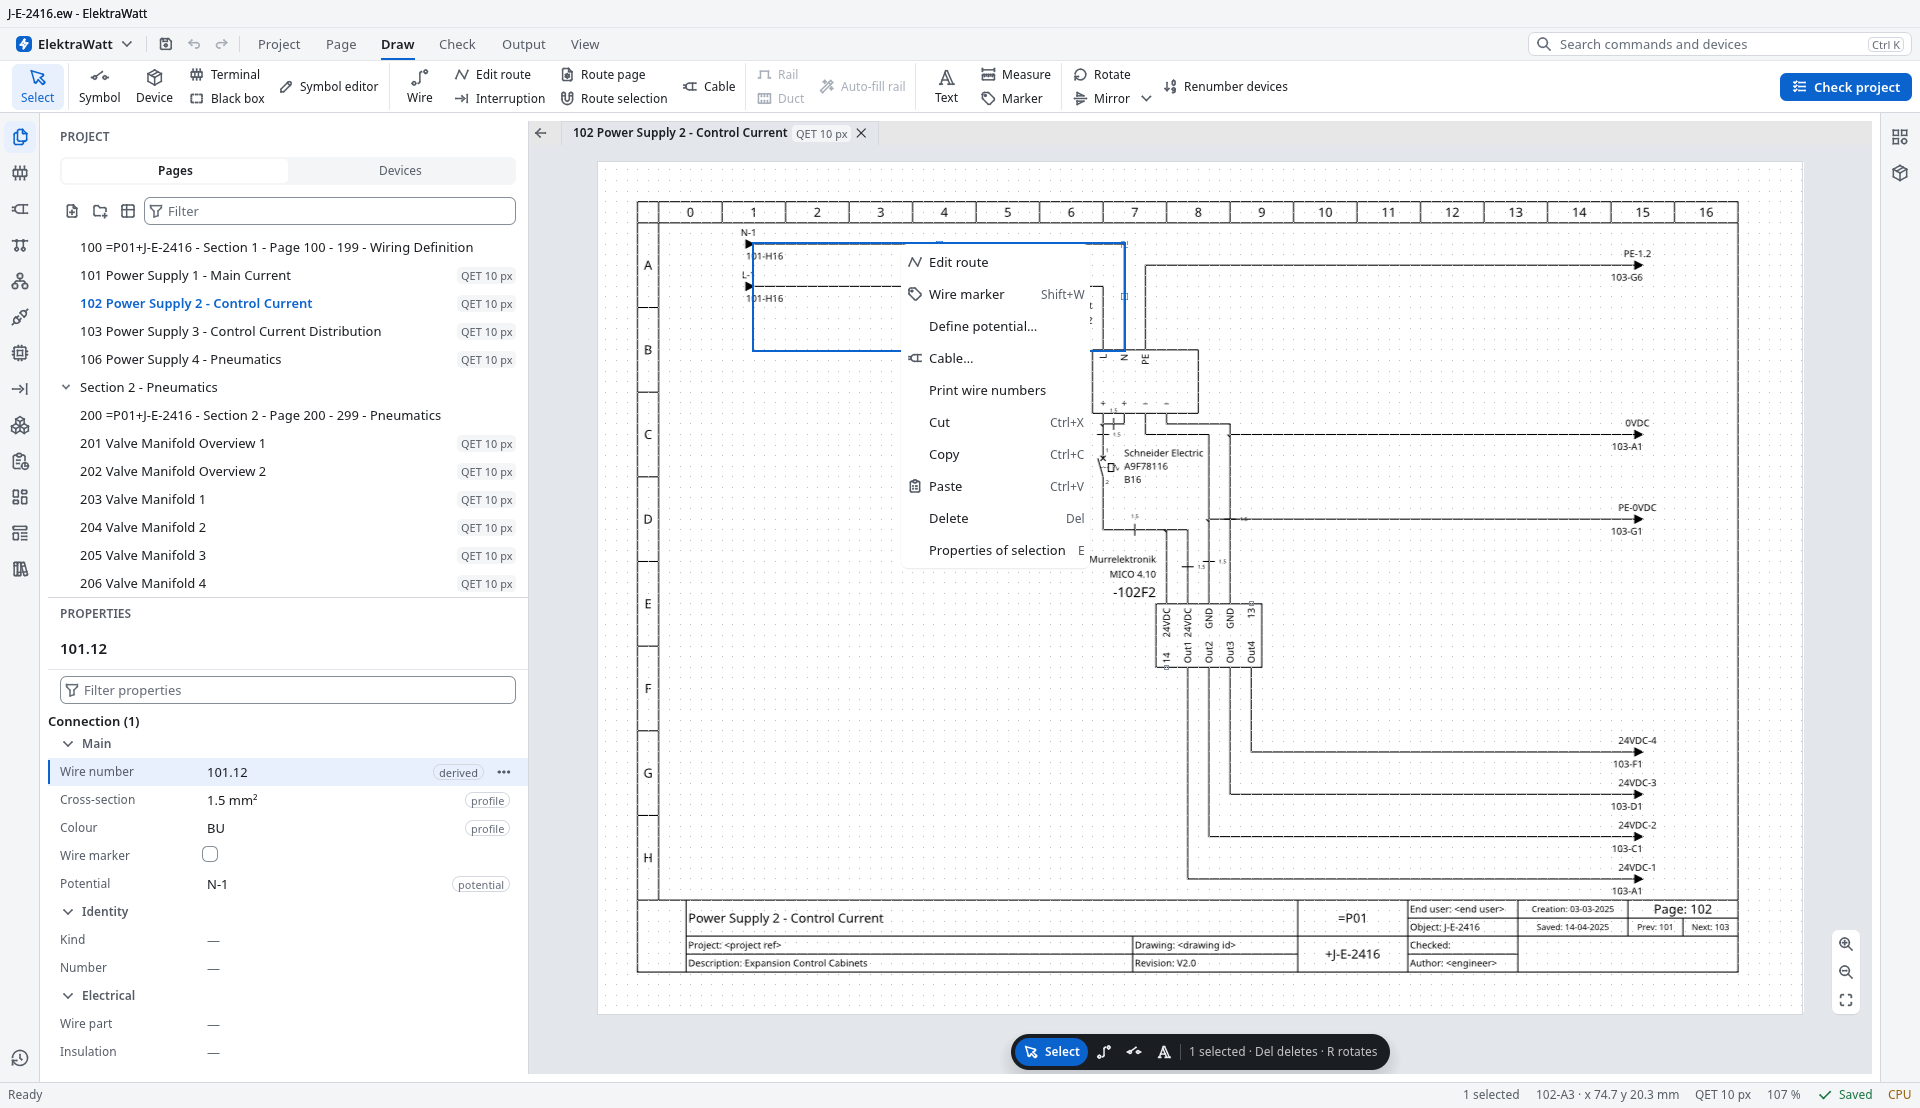
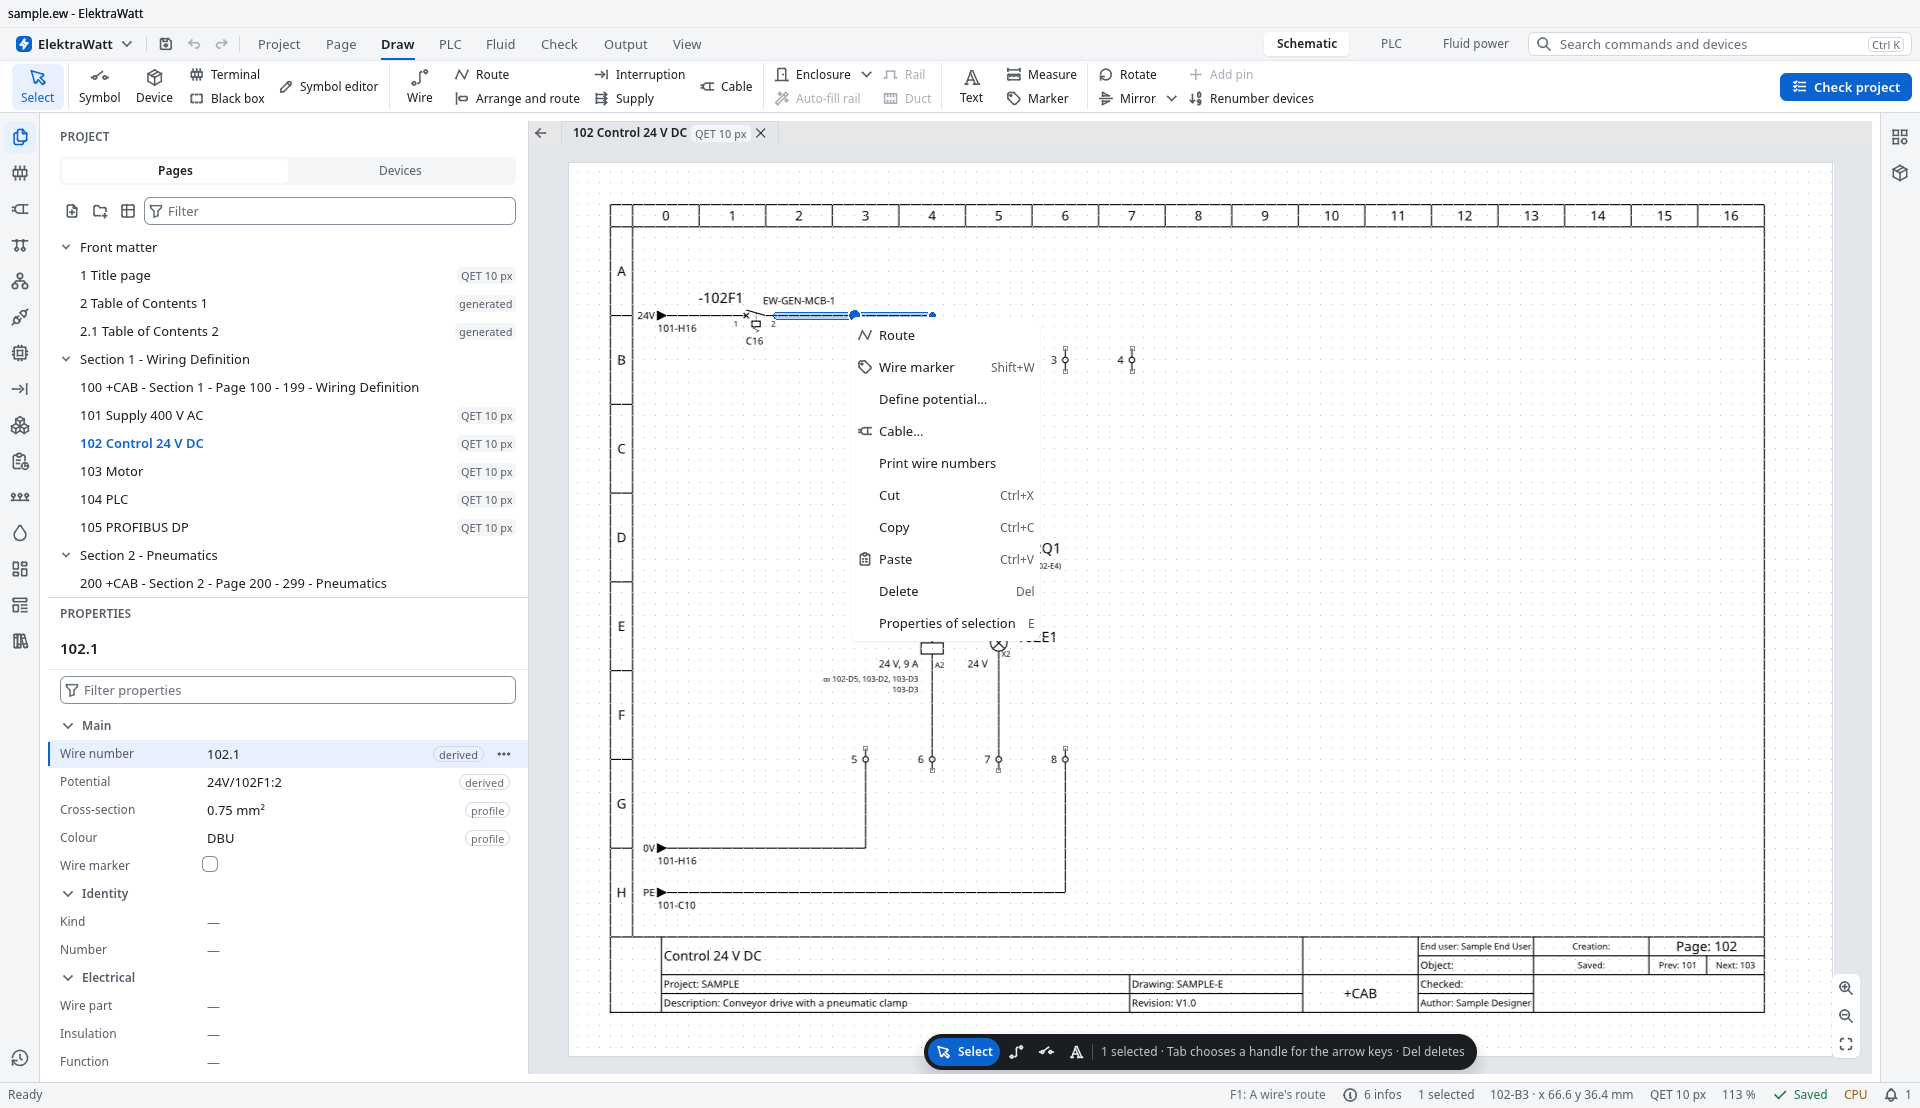
docs(readme): the pictures and the quick start are on the sample project
Five of the six pictures are shot again on a copy of the sample project at
1920 x 1080 from the headless window (the check findings on 101, the
right-click menu on a wire of 102, Cable... over two field wires on 104, the
panel layout 902, the pneumatics page 201 in the dark theme). The symbol
editor's picture is kept: shot again, its turned variants print their texts
on top of each other, a fault reported rather than committed. The quick start
copies the sample, and the reference project's lines go.

diff --git a/README.md b/README.md
@@ -8,9 +8,9 @@ in Rust. It aims at the functionality of EPLAN Electric P8 class tools: schemati
 cables, PLC and fluid power, panel layout, reports, manufacturing outputs and checks, in a plain-text project format
 that works with Git.
 
-![The ElektraWatt window with the reference project open: the page list and the properties on the left, a
-main-current schematic on the canvas, and the findings of a project check in the Messages panel below
-it](docs/images/screenshot-schematic-checks.png)
+![The ElektraWatt window with the sample project open: the page list and the properties on the left, the 400 V supply
+page on the canvas, and the findings of a project check in the Messages panel below it: no error, no warning, six
+infos](docs/images/screenshot-schematic-checks.png)
 
 ## Download
 
@@ -33,14 +33,15 @@ and what is known not to work yet.
 
 | The right-click menu | Cable… |
 |---|---|
-| ![A wire of the reference project right-clicked: its menu offers Edit route, Wire marker, Define potential, Cable and Print wire numbers first, then the general entries](docs/images/screenshot-right-click.png) | ![The Cable form over three selected supply wires: the proposed tag -101W1, the type 3G1.5 and each wire's core, N on blue, PE on green-yellow, L on brown](docs/images/screenshot-cable-form.png) |
+| ![A wire of the sample's 24 V control page right-clicked: its menu offers Route, Wire marker, Define potential, Cable and Print wire numbers first, then the general entries](docs/images/screenshot-right-click.png) | ![The Cable form over the two selected wires of a position switch in the field: the proposed tag -104W1, the two-core cable type and each wire's core, brown and blue](docs/images/screenshot-cable-form.png) |
 | **The symbol editor** | **The panel layout** |
-| ![The symbol editor with a copy of the starter coil: its drawing with the connection points A1 and A2, the category Relays, the snap grid, the eight variants and a tool's tooltip](docs/images/screenshot-symbol-editor.png) | ![The cabinet layout page of the reference project: the mounting plate with its rails, ducts and devices, and the parts legend beside it](docs/images/screenshot-panel-layout.png) |
+| ![The symbol editor with a copy of the starter coil: its drawing with the connection points A1 and A2, the category Relays, the snap grid, the eight variants and a tool's tooltip](docs/images/screenshot-symbol-editor.png) | ![The panel layout page of the sample project: the enclosure and its mounting plate with two rails, a duct and the devices, and the legend beside it](docs/images/screenshot-panel-layout.png) |
 | **The dark theme** | |
-| ![A fluid-power page of the reference project in the dark theme: a valve manifold with its solenoid valves and cylinders](docs/images/screenshot-dark-theme.png) | |
+| ![The pneumatics page of the sample project in the dark theme: a valve terminal with four solenoid valves, two of them spare, driving two cylinders](docs/images/screenshot-dark-theme.png) | |
 
-The screenshots show the reference project `golden/J-E-2416.ew` at 1920 × 1080. The application drew them itself,
-with its offscreen renderer (`elektrawatt --headless --visual`), the same one its window tests use.
+The screenshots show a copy of the sample project `fixtures/sample/sample.ew` at 1920 × 1080; the symbol editor's
+is older and shows release 0.2.0. The application drew them itself, with its offscreen renderer
+(`elektrawatt --headless --visual`), the same one its window tests use.
 
 ## Status
 
@@ -82,13 +83,14 @@ What works today:
   applying recorded command files, revisions and verification of the derived data. Run `ew help` for the full usage.
 - **Outputs**: reports (parts list, terminal and cable lists, cover tables and back-links) drawn on report pages and
   written as PDF/A-2b and SVG.
-- **The reference project** `golden/J-E-2416.ew` (36 pages, anonymised) with its expected outputs, and the acceptance
-  tests that check the acceptance criteria of the design against them.
+- **The sample project** `fixtures/sample/sample.ew`, a small conveyor drive with a pneumatic clamp that the program
+  draws itself from a script of its own actions (`fixtures/sample/sample.uiscript`); the tests, the guide and the
+  release use it.
 - **Headless operation**: the window runs the same actions from a UI script without a display
   (`elektrawatt --headless --script <file>`), which is how the UI is tested.
 - **Tests**: about 7,000 across the workspace, with determinism lints (no wall clock, no environment reads and no
   hash-ordered collections in the model, derivation, format and export paths), window tests driven by the pointer
-  and the keys, property tests, a command fuzzer and the golden project as oracle.
+  and the keys, property tests and a command fuzzer with the memo oracle.
 
 ## Building and running
 
@@ -101,13 +103,13 @@ cargo xtask check -p <crate>   # format, clippy, that crate's tests and the repo
 cargo xtask check              # the same over the whole workspace, several minutes
 ```
 
-To look at the reference project, work on a copy of it, because the application and the tool keep a lock and a
+To look at the sample project, work on a copy of it, because the application and the tool keep a lock and a
 journal beside an open project:
 
 ```sh
-cp -r golden/J-E-2416.ew /tmp/J-E-2416.ew
-cargo run -p ew -- export pdf /tmp/J-E-2416.ew --out /tmp/J-E-2416.pdf
-cargo run -p elektrawatt -- /tmp/J-E-2416.ew
+cp -r fixtures/sample/sample.ew /tmp/sample.ew
+cargo run -p ew -- export pdf /tmp/sample.ew --out /tmp/sample.pdf
+cargo run -p elektrawatt -- /tmp/sample.ew
 ```
 
 The window needs a graphics adapter; without one it exits with code 3 and names the headless mode. `--no-gpu` draws
@@ -142,7 +144,6 @@ checked by `cargo xtask rules`. The architecture decision records are listed in 
 
 - [Documentation map](docs/README.md): what to read for which task.
 - [ADR index](docs/adr/README.md) and the [plan](docs/plan/README.md).
-- The [reference project](docs/design/20-golden-project.md), which defines what the acceptance tests prove.
 - [CLAUDE.md](CLAUDE.md), [.claude/orchestration.md](.claude/orchestration.md) and [.claude/agents](.claude/agents):
   the setup for AI-assisted work.
 
